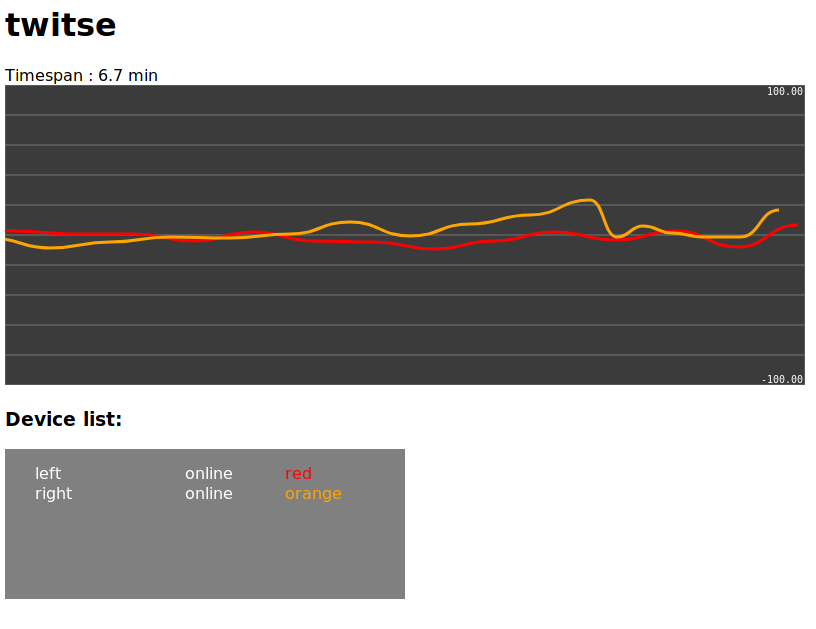
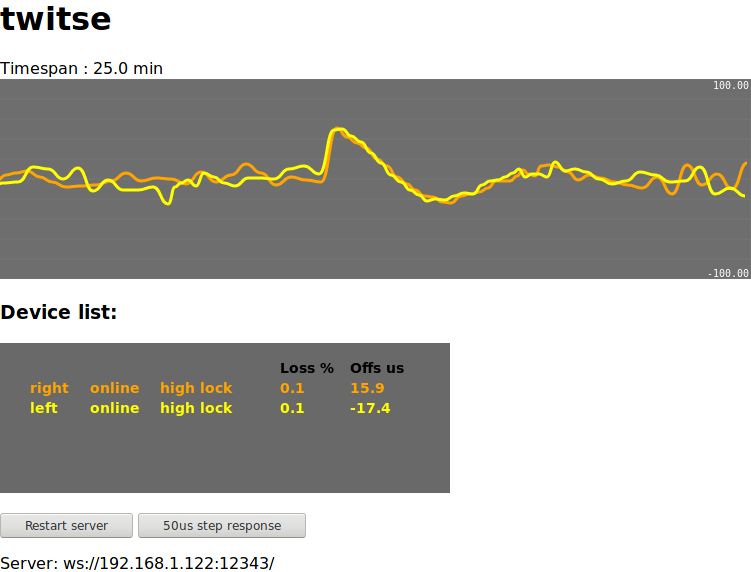
webmonitor

diff --git a/doc/webmonitor/index.html b/doc/webmonitor/index.html
@@ -14,7 +14,7 @@ and others...
     <title>twitse</title>
     <script type="text/javascript" src="http://ajax.googleapis.com/ajax/libs/jquery/1.4.2/jquery.min.js"></script>
     <script type="text/javascript" src="smoothie.js"></script>
-    <script type="text/javascript" src="findservers.js"></script>
+    <script type="text/javascript" src="findserver.js"></script>
 
     <style>
         body {
@@ -24,10 +24,11 @@ and others...
 
     <script type="text/javascript">
         var channels = {};
-        var colors = ['red', 'orange', 'yellow', 'green', 'blue', 'purple'];
+        var colors = ['orange', 'yellow', 'green', 'blue', 'purple'];
+        var offsets = {}
         var next_color = 0;
-        var graph_width = 800;
         var ws = null;
+        var ms_per_pixel = 2000;
 
         class ChannelInfo {
             constructor(name, chart, color) {
@@ -51,25 +52,32 @@ and others...
 
         function update_channel_list() {
             var c = document.getElementById('channel_box').getContext('2d');
-            c.fillStyle = "grey";
-            c.fillRect(0, 0, 400, 150);
-            c.font = '16px Arial, sans-serif';
-
-            var x = 30;
-            var y = 30;
+            var x1 = 30, x2 = 90, x3 = 160, x4 = 280, x5 = 350;
+            var y0 = 30, y = 50;
             var lineheight = 20;
+            
+            c.fillStyle = "dimgrey";
+            c.fillRect(0, 0, x5 + 100, 150);
+            c.font = 'bold 14px Arial, sans-serif';
 
+            c.fillStyle = "black";
+            c.fillText("Loss %", x4, y0);
+            c.fillText("Offs us", x5, y0);
+            
             var keys = Object.keys(channels);
             for (var i = 0; i < keys.length; i++) {
-                c.fillStyle = "white";
                 var key = keys[i];
                 var channel_info = channels[key];
-                c.fillText(key, x, y + (i * lineheight));
-                c.fillText(channel_info.status, x + 90, y + (i * lineheight));
-                c.fillText(channel_info.lockstate, x + 160, y + (i * lineheight));
-                c.fillText(parseFloat(channel_info.loss).toFixed(1), x + 250, y + (i * lineheight));
-                c.fillStyle = channel_info.color;
-                c.fillText(channel_info.color, x + 300, y + (i * lineheight));
+                c.fillStyle = channel_info.color;                
+                var yoff = y + (i * lineheight);
+                c.fillText(key, x1, yoff);
+                c.fillText(channel_info.status, x2, yoff);
+                c.fillText(channel_info.lockstate, x3, yoff);
+                c.fillText(parseFloat(channel_info.loss).toFixed(1), x4, yoff);
+                var offset = offsets[key];
+                if (offset != 'undefined') {
+                    c.fillText(parseFloat(offset).toFixed(1), x5, yoff);
+                }
             }
         }
         
@@ -79,23 +87,27 @@ and others...
             else $("#error").text("Server: " + url);
         }
             
-        
-        $(function () {
-            var ms_per_pixel = 800;
+        function print_responsives() {
+            var chart = document.getElementById("chart");            
+            var graph_width = chart.clientWidth;
             var minuttes = ms_per_pixel * graph_width / 60000.0;
             $("#info").text("Timespan : " + minuttes.toFixed(1) + " min")
+        }
+        
+        $(function () {
+            print_responsives();
 
-            var smoothie_chart = new SmoothieChart(
-                { millisPerPixel: 500, millisPerLine:60000, 
-                interpolation: 'bezier', 
+            var smoothie_chart = new SmoothieChart({ 
+                responsive: true, millisPerPixel: ms_per_pixel, millisPerLine:60000,
+                interpolation: 'bezier',
                 maxValue: 100, minValue: -100,
-                grid : { verticalSections: 10,} });
+                grid: { verticalSections: 10,} 
+            });
 
-            var chart = document.getElementById("chart");
+            var chart = document.getElementById("chart");                        
             smoothie_chart.streamTo(chart);
-            chart.style.width = graph_width + "px";
-            update_channel_list();
 
+            update_channel_list();
             
             server_info(null);
 
@@ -133,6 +145,9 @@ and others...
                             
                             var time_series = channel_info.timeseries;
                             time_series.append(parseInt(time), parseFloat(value));
+                            
+                            offsets[name] = value;
+                            update_channel_list();
                         }
                         update_channel_list();
                     };
@@ -156,11 +171,16 @@ and others...
                 if (!ws || ws.readyState === WebSocket.CLOSED) 
                 {
                     update_channel_list();
-                    findserver(12343, "192.168.1.", 2, 255, 150, 1000, function(url)
+                    findserver(12343, "192.168.1.", 2, 255, 150, 3000, function(url)
                     {
-                        server_info(url);
-                        start(url);
-                        console.log("found websocket");
+                        if (url != null) {
+                            server_info(url);
+                            start(url);
+                            console.log("found websocket");
+                        }
+                        else {
+                            console.log("server not found");
+                        }
                     });
                 }
             }
@@ -179,6 +199,9 @@ and others...
             }
         };
 
+        window.addEventListener('resize', function(event){
+            print_responsives();
+        });
 
         $(document).ready(function() {
             $('#button_server_restart').click(function() {
@@ -196,7 +219,7 @@ and others...
 <body>
     <h1>twitse</h1>
     <div id="info"></div>
-    <canvas id="chart" width="800" height="300"></canvas>
+    <canvas id="chart" style="width:100%; height:200px"></canvas>
     <h3>Device list:</h3>
     <canvas id="channel_box" width="500" height="150"></canvas>
     <p>

diff --git a/doc/webmonitor/findserver.js b/doc/webmonitor/findserver.js
@@ -10,7 +10,7 @@ function findserver(port, ipBase, ipLow, ipHigh, maxInFlight, timeout, cb) {
         var address = "ws://" + ipBase + ip + ":" + port;
         var socket = new WebSocket(address);
         var timer = setTimeout(function() {
-            console.log(address + " timeout");
+            //console.log(address + " timeout");
             var s = socket;
             socket = null;
             s.close();
@@ -51,9 +51,3 @@ function findserver(port, ipBase, ipLow, ipHigh, maxInFlight, timeout, cb) {
 
     next();
 }
-
-/*
-findServers(1234, "192.168.1.", 1, 255, 20, 1, 4000, function(servers) {
-    console.log(servers);
-});
-*/

diff --git a/server/src/websocket.cpp b/server/src/websocket.cpp
@@ -53,7 +53,7 @@ void WebSocket::slotSend(const QString &clientName, double offset_us)
     while (m_webSocketHistory.size())
     {
         int age = now_ms - (*m_webSocketHistory.first())["time"].toString().toLongLong();
-        const int minuttes = 10;
+        const int minuttes = 60;
         if (age > 60000 * minuttes)
         {
             m_webSocketHistory.pop_front();
@@ -98,7 +98,7 @@ void WebSocket::slotTextMessageReceived(const QString& message)
     }
     else if (command == "transient_test")
     {
-        s_systemTime->adjustSystemTime(50000);
+        s_systemTime->adjustSystemTime_ns(50000);
     }
     else if (command == "server_restart")
     {

diff --git a/server/src/server.cpp b/server/src/server.cpp
@@ -29,7 +29,7 @@ Server::Server(QCoreApplication *parent, QString id, const QHostAddress &address
 
 #ifdef VCTCXO
     int64_t localRawToWallOffset = s_systemTime->getWallClock() - s_systemTime->getRawSystemTime();
-    s_systemTime->adjustSystemTime(localRawToWallOffset);
+    s_systemTime->adjustSystemTime_ns(localRawToWallOffset);
 #endif
 
     m_multicastThread = new QThread(parent);
@@ -156,7 +156,7 @@ void Server::timerEvent(QTimerEvent* timerEvent)
 #ifdef VCTCXO
     else if (id == m_adjustToWallClockTimer)
     {
-        s_systemTime->adjustSystemTime(0);
+        s_systemTime->adjustSystemTime_ns(0);
     }
 #endif
 }

diff --git a/client/src/client.cpp b/client/src/client.cpp
@@ -315,7 +315,7 @@ void Client::tcpRx()
                     struct timespec ts = {(__time_t) (tt / SystemTimeNS_IN_SEC), (__syscall_slong_t) (tt % NS_IN_SEC)};
                     clock_settime(CLOCK_REALTIME, &ts);
 #else
-                    s_systemTime->adjustSystemTime(epoc_ns);
+                    s_systemTime->adjustSystemTime_ns(epoc_ns);
 #endif
                 }
                 else

diff --git a/util/src/systemtime_vctcxo.cpp b/util/src/systemtime_vctcxo.cpp
@@ -8,7 +8,7 @@
 #include <sys/time.h>
 
 
-void SystemTime::adjustSystemTime(int64_t adjustment_ns)
+void SystemTime::adjustSystemTime_ns(int64_t adjustment_ns)
 {
     m_monotonicClockOffset += adjustment_ns;
     m_resetTime += adjustment_ns;

diff --git a/util/src/systemtime_std.h b/util/src/systemtime_std.h
@@ -53,7 +53,7 @@ public:
         return sec * NS_IN_SEC + nsec;
     }
 
-    void adjustSystemTime(int64_t adjustment_ns);
+    void adjustSystemTime_ns(int64_t adjustment_ns);
 
     void setPPM(double ppm);
     double getPPM();

diff --git a/util/src/systemtime_vctcxo.h b/util/src/systemtime_vctcxo.h
@@ -47,7 +47,7 @@ public:
         return sec * NS_IN_SEC + nsec;
     }
 
-    void adjustSystemTime(int64_t adjustment_ns);
+    void adjustSystemTime_ns(int64_t adjustment_ns);
 
     void setPPM(double ppm);
     double getPPM();

diff --git a/util/src/systemtime_std.cpp b/util/src/systemtime_std.cpp
@@ -16,7 +16,7 @@ void SystemTime::setSystemTime(int64_t epoch)
 }
 
 
-void SystemTime::adjustSystemTime(int64_t adjustment_ns)
+void SystemTime::adjustSystemTime_ns(int64_t adjustment_ns)
 {
     if (!s_ppmInitialized)
     {

diff --git a/doc/TLDR.md b/doc/TLDR.md
@@ -34,6 +34,8 @@ All time testing has been on raspberry pi, with development and functional testi
 
 The entire system consisting of server and client means running root processes without anything that even remotely resembles any kind of security. At all.
 
+There are two different builds, standard build (this page) and vctcxo build. Both should build without problems but it might happen that either build actually doesn't quite work as expected if focus have been too much on the other...
+
 ## Building & deploying
 
 After the git clone add spdlog in-tree as a git submodule:
@@ -53,7 +55,7 @@ Experiment with a -j# switch if building on a rpi. (4 concurrent compilations mi
 
 A full build produces 4 binaries, server, client, control and dataanalysis.
 
-**server** : the server running on a wired pi. It can be started as is. Both server, client and control uses a common multicast socket so e.g. clients will automatically connect to a running server.
+**server** : the server running on a wired pi. It can be started as is. Both server, client and control uses a common multicast socket so e.g. clients will automatically connect to a running server. The wireless interface should be off on the server.
 
 **client** : the client running on a wireless pi. It requires a --id switch with a unique name.
 
@@ -87,13 +89,19 @@ If located in ./doc/gnuplot the demo plot can be made with gnuplot with the foll
 
 ## webmonitor
 
-A client side only webpage that connects to the server via a websocket and plots a nice graph over the current offsets. Once clients and server are running silently as services on raspberry pi computers this is page is one way to quickly figure out how the little buggers are behaving.
+A client side only webpage that connects to the server via a websocket and plots a nice graph over the current offsets. Once clients and server are running silently as services on raspberry pi computers this is page is one way to quickly figure out how the little buggers are behaving. Make sure that only the wired interface is up on the server, otherwise traffic might get routed through both wired and wireless and then nothing works.
+
+The plot shows the transient offset tracking after pressing the '50us step response' button. This adds a 50 microsecond offset to the internal time and as can be seen then there is some work left to get rid of the underdamped response.
 
 <p align="center"><img src="images/webmonitor.png"></p>
 
 Launch
 
-    webmonitor/webmonitor.html
+    index.html
     
-in a browser. Edit it to give it the correct server ip address.
+in doc/webmonitor in a browser. Edit it to give it the correct server ip address if needed, it will default scan the 192.168.1.* class C network.
+
+There is a systemd script 'twitse_webmonitor' in ./systemd intended to be running on the server that will launch a python 3 webserver on port 8000.
+
+
 
